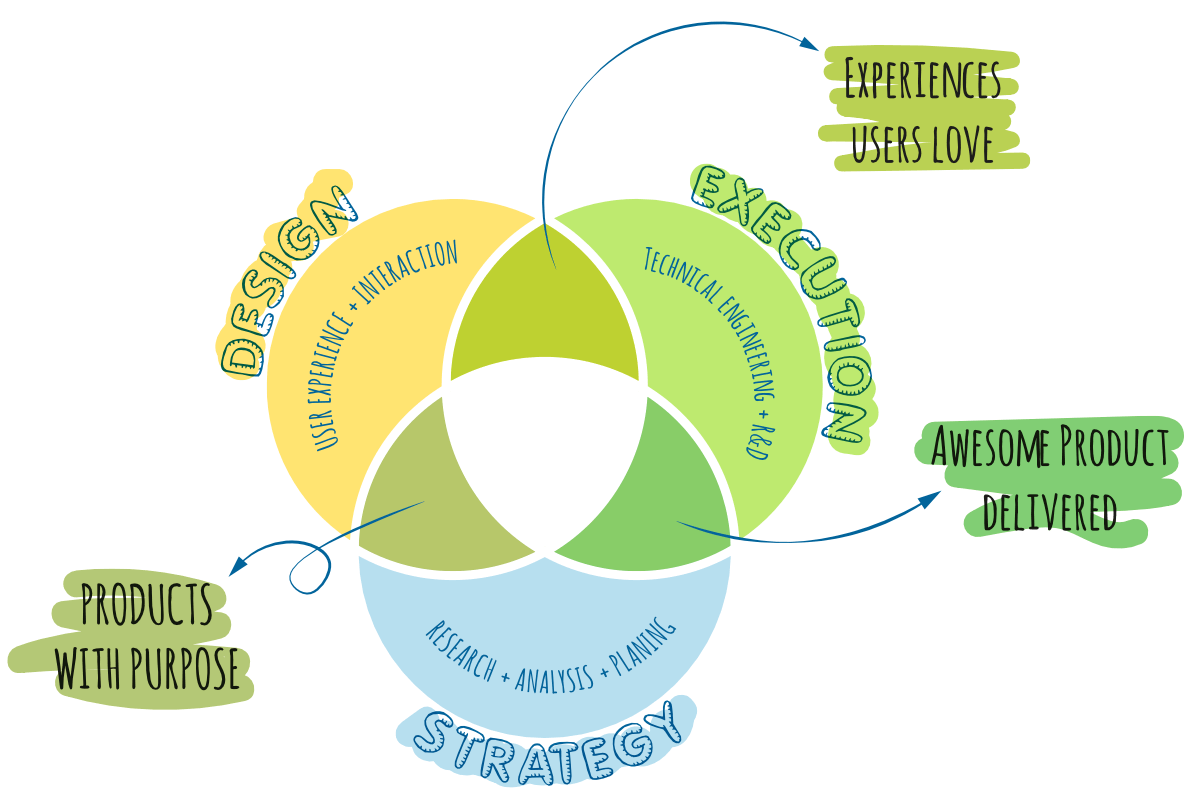
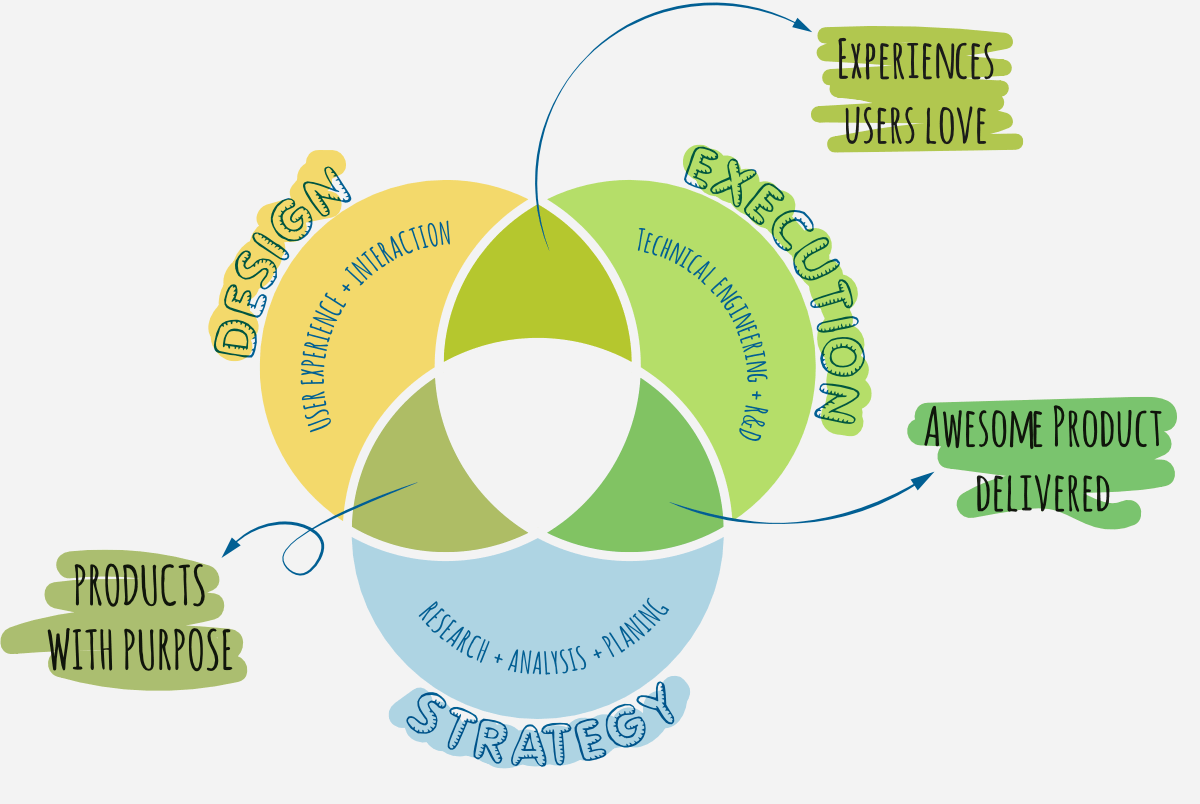
adjust styling

diff --git a/app/index.html b/app/index.html
@@ -80,10 +80,10 @@
         <section class="lab-services-section">
           <a name="services" class="anchor"></a>
           <div class="mdl-grid">
-            <div class="mdl-cell--4-col mdl-cell--12-col-tablet">
+            <div class="mdl-cell mdl-cell--4-col mdl-cell--12-col-tablet">
               <h2 class="mdl-typography--display-1-color-contrast mdl-typography--text-header--section">What we do</h2>
             </div>
-            <div class="mdl-cell--8-col mdl-cell--12-col-tablet mdl-cell--middle mdl-cell--middle">
+            <div class="mdl-cell mdl-cell--8-col mdl-cell--12-col-tablet mdl-cell--middle mdl-cell--middle">
               <p>T7Lab is a strategic partner for developing digital services and products with a strong focus on user
                  experience. Together with our clients and partners we craft digital solutions that are spot on and
                  tailored towards your customers.</p>
@@ -93,7 +93,7 @@
           <div class="illustration">
             <img src="images/process.png" alt="Image of visual process" width="1200" height="691">
           </div>
-          <div class="mdl-grid">
+          <div class="mdl-grid content--services">
             <div class="mdl-cell mdl-cell--4-col mdl-cell--12-col-tablet"><h3 class="mdl-typography--title">Consulting &
                                                                                                             Research</h3>
               <p>Need to improve your existing product or have to build a brand new service from scratch? We will walk
@@ -120,11 +120,11 @@
         <section class="lab-process-section">
           <a name="process" class="anchor"></a>
           <div class="mdl-grid">
-            <div class="mdl-cell--4-col mdl-cell--12-col-tablet mdl-cell--order-8-desktop">
+            <div class="mdl-cell mdl-cell--4-col mdl-cell--12-col-tablet">
               <h2 class="mdl-typography--display-1-color-contrast mdl-typography--text-header--section">How we could
                                                                                                         assist you</h2>
             </div>
-            <div class="mdl-cell--8-col mdl-cell--12col-tablet mdl-cell--middle">
+            <div class="mdl-cell mdl-cell--8-col mdl-cell--12col-tablet mdl-cell--middle">
               <p>Bringing together multiple disciplines, we excel at the intersection of business needs, design, and
                  development. Though we are able to support you from start to finish, we like to see ourselves as a
                  partner along your journey and support you wherever it is most effective. Whether that be development
@@ -142,27 +142,25 @@
         <section class="lab-clients-section">
           <a name="partners" class="anchor"></a>
           <div class="mdl-grid">
-            <div class="mdl-cell--4-col mdl-cell--12-col-tablet">
+            <div class="mdl-cell mdl-cell--5-col mdl-cell--12-col-tablet">
               <h2 class="mdl-typography--display-1-color-contrast mdl-typography--text-header--section">Selected
                                                                                                         Partners and
                                                                                                         Clients</h2>
             </div>
-            <div class="mdl-cell--8-col mdl-cell--12-col-tablet">
+            <div class="mdl-cell--12-col">
               <ul class="mdl-grid mdl-grid--dark logo-wrapper">
-                <li class="mdl-cell mdl-cell--6-col mdl-cell--12-col-tablet"><img
+                <li class="mdl-cell mdl-cell--3-col mdl-cell--6-col-phone mdl-cell--4-col-tablet"><img
                   src="./images/partners/logo_intuity.png" alt="Logo Intuity" width="139" height="50"></li>
-                <li class="mdl-cell mdl-cell--6-col mdl-cell--12-col-tablet"><img
+                <li class="mdl-cell mdl-cell--3-col mdl-cell--6-col-phone mdl-cell--4-col-tablet"><img
+                  src="./images/partners/logo_sv.png" alt="Logo Sparkassenversicherungen" width="173" height="48"></li>
+                <li class="mdl-cell mdl-cell--3-col mdl-cell--6-col-phone mdl-cell--4-col-tablet"><img src="./images/partners/logo_mercedes.png"
+                                                                                alt="Logo Mercedes-Benz" width="180" height="50"></li>
+                <li class="mdl-cell mdl-cell--3-col mdl-cell--6-col-phone mdl-cell--4-col-tablet"><img
                   src="./images/partners/logo_fischer.png" alt="Logo fischerwerke" width="176" height="50"></li>
               </ul>
               <ul class="mdl-grid mdl-grid--dark logo-wrapper">
                 <li class="mdl-cell--12-col"><img
                   src="./images/partners/logo_adriontransporte.png" alt="Logo adrion transporte" width="289" height="24"></li>
-              </ul>
-              <ul class="mdl-grid mdl-grid--dark logo-wrapper">
-                <li class="mdl-cell mdl-cell--6-col mdl-cell--12-col-tablet"><img src="./images/partners/logo_mercedes.png"
-                                                                                  alt="Logo Mercedes-Benz" width="180" height="50"></li>
-                <li class="mdl-cell mdl-cell--6-col mdl-cell--12-col-tablet"><img
-                  src="./images/partners/logo_sv.png" alt="Logo Sparkassenversicherungen" width="173" height="48"></li>
               </ul>
             </div>
           </div>
@@ -172,10 +170,10 @@
         <section class="lab-about-section">
           <a name="about" class="anchor"></a>
           <div class="mdl-grid">
-            <div class="mdl-cell--4-col mdl-cell--12-col-tablet mdl-cell--order-9-desktop">
+            <div class="mdl-cell mdl-cell--4-col mdl-cell--12-col-tablet">
               <h2 class="mdl-typography--display-1-color-contrast mdl-typography--text-header--section">About T7Lab</h2>
             </div>
-            <div class="mdl-cell--8-col mdl-cell--12-col-tablet mdl-cell--middle">
+            <div class="mdl-cell mdl-cell--8-col mdl-cell--12-col-tablet mdl-cell--middle">
               <p>T7Lab was founded by Philipp Timmalog back in 2015 with a desire to create a creative environment in which all aspects of life &ndash; daily creative business, lab like playground, lifelong learning, friends, family &ndash; go seamlessly hand in hand. T7Lab is a place
  where individuals are encouraged to think differently, play around with the latest technology and try out new stuff all without worrying too much about profitability. Rather, we belief that our
  playful nature and environment without old school nine to five working days and old working models, will automatically benefit our partners, clients, and co-workers in the longer run.
@@ -183,48 +181,50 @@
             </div>
           </div>
           <div class="mdl-grid">
-            <h3 class="mdl-typography--title-color-contrast">Our philosophy of working together</h3>
-            <ul class="mdl-cell--12-col">
-            <li>
-              <h4 class="mdl-typography--title">Be playful</h4>
-              <p>We try out new things, whether that be topics like Internet of Things, Industrial Internet, Industrie 4.0, Smart Living,
-                 the latest JavaScript frameworks like AngularJs and React, or trying out new ways of collaboration and working remotely. Our playful nature combined with our lab like environment is what keeps us excited and enables us to deliver outstanding solutions with our partners.</p>
-            </li>
-            <li>
-              <h4 class="mdl-typography--title">Be empathetic</h4>
-              <p>It just doesn’t make sense to consult or build products for customers we don’t know. We strive to
-                 understand our clients and their customers thoroughly. We want to feel their pain points. Empathy is
-                 what enables us to design solutions for real problems.
-              </p>
-            </li>
-            <li>
-              <h4 class="mdl-typography--title">Be curious</h4>
-              <p>Never take status quo for granted. Think differently, question current workflows, try out new stuff,
-                 never stand still.
-              </p>
-            </li>
-            <li>
-              <h4 class="mdl-typography--title">Be courageous</h4>
-              <p>Speak out if things are not working as expected. Speak out if things could be improved. Speak out if
-                 your gut feeling tells you so. Don’t shy away from difficult circumstances. Together we will find
-                 solutions for almost everything.</p>
-            </li>
-            <li>
-              <h4 class="mdl-typography--title">Be honest</h4>
-              <p>Always, whether that be about telling a client where she is wrong, or if you messed things up. We are
-                 allowed to fail. Because failure helps to learn.
-              </p>
-            </li>
-            <li>
-              <h4 class="mdl-typography--title">Be prepared</h4>
-              <p>In this fast moving world we have to be prepared for continuous change and adapt quickly. New
-                 technologies won’t overwhelm us, rather we embrace them and think of useful applications. </p>
-            </li>
-            <li>
-              <h4 class="mdl-typography--title">Be friendly</h4>
-              <p>Towards our clients, our co-workers, our company, our family.</p>
-            </li>
-          </ul>
+            <div class='mdl-cell mdl-cell--8-col mdl-cell--4-offset-desktop'>
+              <h3 class="mdl-typography--title-color-contrast">Our philosophy of working together</h3>
+              <ul class="mdl-cell mdl-cell--12-col">
+                <li>
+                  <h4 class="mdl-typography--title">Be playful</h4>
+                  <p>We try out new things, whether that be topics like Internet of Things, Industrial Internet, Industrie 4.0, Smart Living,
+                     the latest JavaScript frameworks like AngularJs and React, or trying out new ways of collaboration and working remotely. Our playful nature combined with our lab like environment is what keeps us excited and enables us to deliver outstanding solutions with our partners.</p>
+                </li>
+                <li>
+                  <h4 class="mdl-typography--title">Be empathetic</h4>
+                  <p>It just doesn’t make sense to consult or build products for customers we don’t know. We strive to
+                     understand our clients and their customers thoroughly. We want to feel their pain points. Empathy is
+                     what enables us to design solutions for real problems.
+                  </p>
+                </li>
+                <li>
+                  <h4 class="mdl-typography--title">Be curious</h4>
+                  <p>Never take status quo for granted. Think differently, question current workflows, try out new stuff,
+                     never stand still.
+                  </p>
+                </li>
+                <li>
+                  <h4 class="mdl-typography--title">Be courageous</h4>
+                  <p>Speak out if things are not working as expected. Speak out if things could be improved. Speak out if
+                     your gut feeling tells you so. Don’t shy away from difficult circumstances. Together we will find
+                     solutions for almost everything.</p>
+                </li>
+                <li>
+                  <h4 class="mdl-typography--title">Be honest</h4>
+                  <p>Always, whether that be about telling a client where she is wrong, or if you messed things up. We are
+                     allowed to fail. Because failure helps to learn.
+                  </p>
+                </li>
+                <li>
+                  <h4 class="mdl-typography--title">Be prepared</h4>
+                  <p>In this fast moving world we have to be prepared for continuous change and adapt quickly. New
+                     technologies won’t overwhelm us, rather we embrace them and think of useful applications. </p>
+                </li>
+                <li>
+                  <h4 class="mdl-typography--title">Be friendly</h4>
+                  <p>Towards our clients, our co-workers, our company, our family.</p>
+                </li>
+              </ul>
+            </div>
           </div>
         </section>
 
@@ -232,13 +232,13 @@
         <section class="lab-contact-section">
           <a name="contact" class="anchor"></a>
           <div class="mdl-grid">
-            <div class="mdl-cell--5-col mdl-cell--12-col-tablet">
+            <div class="mdl-cell mdl-cell--4-col mdl-cell--12-col-tablet">
               <h2 class="mdl-typography--display-1-color-contrast mdl-typography--text-header--section">Let's build
                                                                                                         something
                                                                                                         amazing
                                                                                                         together</h2>
             </div>
-            <div class="mdl-cell--7-col mdl-cell--12-col-tablet">
+            <div class="mdl-cell mdl-cell--7-col mdl-cell--12-col-tablet">
               <p>Looking to build a new digital product or service, migrating to the latest technology stack, or looking
                  to improve your customer’s online experience? We would love to hear from you and figure out how we could help
               getting your digital service or product started.</p><br />

diff --git a/app/styles/_fonts.scss b/app/styles/_fonts.scss
@@ -333,3 +333,35 @@
   src: local('Rubik Medium'), local('Rubik-Medium'), url(https://fonts.gstatic.com/s/rubik/v3/IUSlgBbgyuDQpy87mBOAc3YhjbSpvc47ee6xR_80Hnw.woff2) format('woff2');
   unicode-range: U+0000-00FF, U+0131, U+0152-0153, U+02C6, U+02DA, U+02DC, U+2000-206F, U+2074, U+20AC, U+2212, U+2215;
 }
+/* cyrillic */
+@font-face {
+  font-family: 'Rubik';
+  font-style: normal;
+  font-weight: 400;
+  src: local('Rubik'), local('Rubik-Regular'), url(https://fonts.gstatic.com/s/rubik/v4/H-PGIsE3CA76bgvfUI8sM4DGDUGfDkXyfkzVDelzfFk.woff2) format('woff2');
+  unicode-range: U+0400-045F, U+0490-0491, U+04B0-04B1, U+2116;
+}
+/* hebrew */
+@font-face {
+  font-family: 'Rubik';
+  font-style: normal;
+  font-weight: 400;
+  src: local('Rubik'), local('Rubik-Regular'), url(https://fonts.gstatic.com/s/rubik/v4/yliIEUJv6vLJBV8IXYupkIDGDUGfDkXyfkzVDelzfFk.woff2) format('woff2');
+  unicode-range: U+0590-05FF, U+20AA, U+25CC, U+FB1D-FB4F;
+}
+/* latin-ext */
+@font-face {
+  font-family: 'Rubik';
+  font-style: normal;
+  font-weight: 400;
+  src: local('Rubik'), local('Rubik-Regular'), url(https://fonts.gstatic.com/s/rubik/v4/Vi2gYeiEKThJHNpaE3cq54DGDUGfDkXyfkzVDelzfFk.woff2) format('woff2');
+  unicode-range: U+0100-024F, U+1E00-1EFF, U+20A0-20AB, U+20AD-20CF, U+2C60-2C7F, U+A720-A7FF;
+}
+/* latin */
+@font-face {
+  font-family: 'Rubik';
+  font-style: normal;
+  font-weight: 400;
+  src: local('Rubik'), local('Rubik-Regular'), url(https://fonts.gstatic.com/s/rubik/v4/p_PvaTv0YzIEJlEVv30xK6CWcynf_cDxXwCLxiixG1c.woff2) format('woff2');
+  unicode-range: U+0000-00FF, U+0131, U+0152-0153, U+02C6, U+02DA, U+02DC, U+2000-206F, U+2074, U+20AC, U+2212, U+2215;
+}

diff --git a/app/styles/main.scss b/app/styles/main.scss
@@ -75,7 +75,7 @@ body {
 
 .mdl-typography--text-header--section {
   color: $primary-color;
-  font-size: 4rem;
+  font-size: 3rem;
   font-family: 'Rubik', 'Roboto', 'Helvetica', 'Arial', sans-serif;
   opacity: .75;
   margin-top: 0;
@@ -96,6 +96,9 @@ body {
 }
 
 .logo-wrapper {
+  li {
+    margin-bottom: 20px;
+  }
   img {
     max-width: 100%;
     height: auto;
@@ -103,7 +106,7 @@ body {
 }
 
 section {
-  max-width: 80%;
+  width: 100%;
   margin: 0 auto;
 
   &.lab-contact-section {
@@ -116,6 +119,16 @@ section {
     visibility: hidden;
     height: 100px;
   }
+
+  > .mdl-grid {
+    max-width: 1000px;
+  }
+
+  .illustration {
+      background: #F3F3F3;
+      padding: 40px 0;
+      margin: 40px 0
+    }
 }
 
 
@@ -293,6 +306,7 @@ a img {
   font-family: 'Rubik', sans-serif;
   line-height: 1;
   color: white;
+  font-weight: 500;
 
   span {
     color: $primary-color;
@@ -592,7 +606,6 @@ a img {
   }
 
   section {
-    max-width: 95%;
     margin: 0 auto;
     padding: 0 0 50px 0;
 
@@ -657,6 +670,16 @@ a img {
     opacity: 0;
   }
 
+}
+
+.content {
+  &--services {
+    i {
+      margin-top: 20px;
+      color: #9B9B9B;
+      display: inline-block;
+    }
+  }
 }
 
 @media only screen and (max-width: 736px) {
